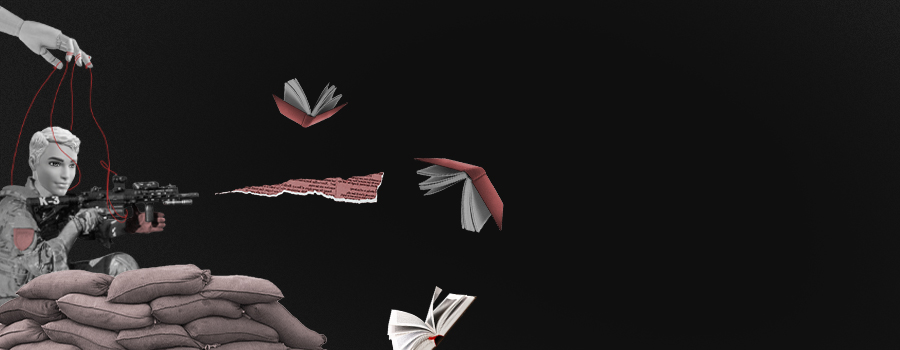
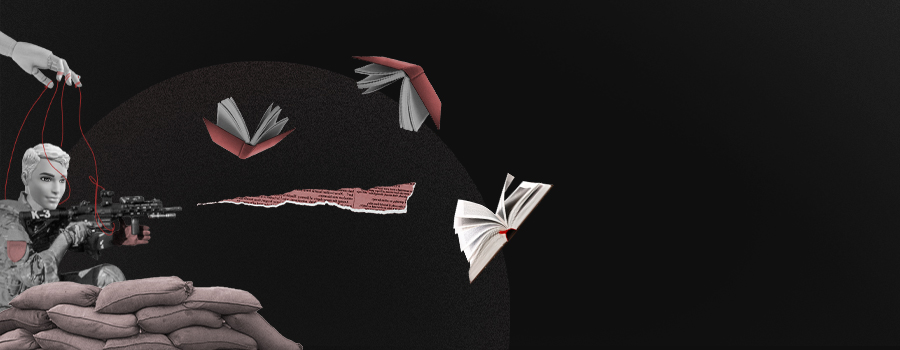
Kleine aanpassingen voor gebruiksvriendelijkheid te verbeteren

Changed region(s): [[0.0, 0.0286, 0.6222, 1.0], [0.2178, 0.1429, 0.4978, 0.4571], [0.4044, 0.8286, 0.5289, 1.0]]

diff --git a/src/css/longread/author.css b/src/css/longread/author.css
@@ -61,20 +61,13 @@
     position: absolute;
     height: 100%;
 
-    /* Image size */
-    /* DEEL 1 t.e.m. -1rem berekend puur de container width (zonder margin RECHTS -1rem) */
-    /* DEEL 2 -7rem is voor meer naar rechts te positioneren (14/2)*/
     right: calc(var(--container) - 7rem);
     background-size: cover;
-
-    /* Canvas size */
-    /* DEEL 1 t.e.m. -6rem berekend puur de container width (zonder margin -2rem) */
-    /* DEEL 2 14rem is de extra padding */
 
     width: calc(100vw - (var(--container) * 2) - 6rem + 14rem);
 
     @media (--only-medium-screen) {
-      left: -3rem; /* container margin negeren */
+      left: -3rem;
       width: 100vw;
     }
 
@@ -112,47 +105,3 @@
     padding: 0;
   }
 }
-
-/* .line--author {
-  position: relative;
-
-  &::before {
-    content: '';
-    background-image: url(../../assets/img/longread/line_auteur.svg);
-    background-repeat: no-repeat;
-
-    background-size: 100% auto;
-
-    width: calc(50vw - 15rem);
-    height: calc(50vw - 15rem);
-
-    position: absolute;
-    bottom: -10rem;
-    left: 0;
-    z-index: -1;
-
-    @media (width < 1440px) {
-      width: 45vw;
-      height: 45vw;
-    }
-
-    @media (--only-medium-screen) {
-      bottom: -8rem;
-    }
-
-    @media (--only-small-screen) {
-      background-size: 105% auto;
-      width: 100vw;
-      height: 50vw;
-      bottom: 10rem;
-    }
-
-    @media (--only-extrasmall-screen) {
-      bottom: 25rem;
-    }
-
-    @media (--only-mobile-screen) {
-      bottom: 35rem;
-    }
-  }
-} */

diff --git a/src/css/typography.css b/src/css/typography.css
@@ -1,3 +1,38 @@
+@font-face {
+  font-family: 'Swiss Condensed';
+  src: url(./../assets/fonts/Swiss/Swiss-Condensed.woff2) format('woff2'), url(./../assets/fonts/Swiss/Swiss-Condensed.woff) format('woff');
+  font-weight: normal;
+  font-style: normal;
+}
+
+@font-face {
+  font-family: Swiss;
+  src: url(./../assets/fonts/Swiss/Swiss.woff2) format('woff2'), url(./../assets/fonts/Swiss/Swiss.woff) format('woff');
+  font-weight: normal;
+  font-style: normal;
+}
+
+@font-face {
+  font-family: 'News Gothic';
+  src: url(./../assets/fonts/NewsGothic/NewsGothic.woff2) format('woff2'), url(./../assets/fonts/NewsGothic/NewsGothic.woff) format('woff');
+  font-weight: normal;
+  font-style: normal;
+}
+
+@font-face {
+  font-family: 'News Gothic';
+  src: url(./../assets/fonts/NewsGothic/NewsGothic-Bold.woff2) format('woff2'), url(./../assets/fonts/NewsGothic/NewsGothic-Bold.woff) format('woff');
+  font-weight: bold;
+  font-style: normal;
+}
+
+@font-face {
+  font-family: 'News Gothic';
+  src: url(./../assets/fonts/NewsGothic/NewsGothic-Oblique.woff2) format('woff2'), url(./../assets/fonts/NewsGothic/NewsGothic-Oblique.woff) format('woff');
+  font-weight: normal;
+  font-style: oblique;
+}
+
 body {
   font-size: var(--fontRegular);
   font-family: var(--fontBody);

diff --git a/src/css/helpers.css b/src/css/helpers.css
@@ -10,38 +10,3 @@
 .input--error {
   border-bottom: 1px solid var(--colorRed);
 }
-
-@font-face {
-  font-family: 'Swiss Condensed';
-  src: url(./../assets/fonts/Swiss/Swiss-Condensed.woff2) format('woff2'), url(./../assets/fonts/Swiss/Swiss-Condensed.woff) format('woff');
-  font-weight: normal;
-  font-style: normal;
-}
-
-@font-face {
-  font-family: Swiss;
-  src: url(./../assets/fonts/Swiss/Swiss.woff2) format('woff2'), url(./../assets/fonts/Swiss/Swiss.woff) format('woff');
-  font-weight: normal;
-  font-style: normal;
-}
-
-@font-face {
-  font-family: 'News Gothic';
-  src: url(./../assets/fonts/NewsGothic/NewsGothic.woff2) format('woff2'), url(./../assets/fonts/NewsGothic/NewsGothic.woff) format('woff');
-  font-weight: normal;
-  font-style: normal;
-}
-
-@font-face {
-  font-family: 'News Gothic';
-  src: url(./../assets/fonts/NewsGothic/NewsGothic-Bold.woff2) format('woff2'), url(./../assets/fonts/NewsGothic/NewsGothic-Bold.woff) format('woff');
-  font-weight: bold;
-  font-style: normal;
-}
-
-@font-face {
-  font-family: 'News Gothic';
-  src: url(./../assets/fonts/NewsGothic/NewsGothic-Oblique.woff2) format('woff2'), url(./../assets/fonts/NewsGothic/NewsGothic-Oblique.woff) format('woff');
-  font-weight: normal;
-  font-style: oblique;
-}

diff --git a/src/css/components/shopitem.css b/src/css/components/shopitem.css
@@ -75,13 +75,14 @@
 
 .info__options {
   display: grid;
-  grid-template-columns: repeat(auto-fill, minmax(6rem, 1fr));
+  grid-template-columns: repeat(auto-fill, minmax(8rem, 1fr));
   grid-gap: var(--spacerRegular);
   text-align: center;
   margin-top: 0;
 
   & div {
     border: 1px solid rgb(226, 226, 226);
+    border-radius: .2rem;
 
     &:hover {
       cursor: pointer;
@@ -91,14 +92,18 @@
 
 .option__input:checked + div {
   background-color: var(--colorGrey);
-  border: 1px solid rgb(117, 117, 117);
+  border: 1px solid rgb(180, 180, 180);
   font-weight: bold;
 }
 
 .option__label {
+  font-size: .8rem;
+  text-transform: uppercase;
+  letter-spacing: 2px;
   padding: .7rem 0;
   display: block;
-  min-width: 6rem;
+  min-width: 8rem;
+  color: var(--colorRed);
 
   &:hover {
     cursor: pointer;
@@ -107,6 +112,7 @@
   & .price {
     font-size: var(--fontSmall);
     font-family: var(--fontTitle);
+    color: black;
   }
 }
 

diff --git a/src/css/components/webshop.css b/src/css/components/webshop.css
@@ -1,8 +1,8 @@
 .webshop__items {
-  margin-top: var(--spacerBig);
+  margin-top: 3rem;
   display: grid;
   grid-template: auto / repeat(4, 1fr);
-  grid-gap: var(--spacerBig);
+  grid-gap: 3rem;
 
   @media (--only-medium-screen) {
     grid-template: auto / repeat(3, 1fr);
@@ -50,6 +50,8 @@
   }
 
   & .item__info {
+    font-size: .9rem;
+    opacity: .5;
     order: 4;
   }
 }

diff --git a/src/css/longread/summary.css b/src/css/longread/summary.css
@@ -51,7 +51,7 @@
 .summary__img {
   grid-area: img;
   height: 280px;
-  margin-bottom: 2rem; /* nodig voor mobile */
+  margin-bottom: 2rem;
   position: relative;
 
   @media (--only-small-screen) {
@@ -71,7 +71,6 @@
       url(../../assets/img/longread/intro_1000x388.jpg);
     background-repeat: no-repeat;
     right: 0;
-
 
     background-position:
       35rem 0%,

diff --git a/src/css/components/navbar.css b/src/css/components/navbar.css
@@ -177,10 +177,13 @@
 }
 
 .menu__items--mobile .menu__item--logo {
-  transform: translateX(-5.7rem);
   margin: 0 auto;
 
-  &::before {
+  & a {
+    transform: translate(-5.7rem, -1.75rem);
+  }
+
+  & a::before {
     content: '';
     position: absolute;
     background-repeat: no-repeat;

diff --git a/src/style.css b/src/style.css
@@ -1,8 +1,8 @@
 /* imports */
 @import './css/reset.css';
 @import './css/vars.css';
-@import './css/base.css';
 @import './css/typography.css';
+@import './css/base.css';
 @import './css/components/navbar.css';
 @import './css/components/footer.css';
 @import './css/components/banner.css';

diff --git a/src/css/components/checkout.css b/src/css/components/checkout.css
@@ -112,7 +112,7 @@
 .order__information {
   display: grid;
   grid-template-columns: repeat(4, 1fr);
-  grid-gap: var(--spacerRegular);
+  grid-gap: 2rem var(--spacerRegular);
   grid-template-areas:
     'title title title title'
     'firstname firstname lastname lastname'

diff --git a/src/css/components/footer.css b/src/css/components/footer.css
@@ -50,8 +50,6 @@
   }
 }
 
-/* FOOTER NAVIGATION */
-
 .footer__nav {
   margin-top: var(--spacerRegular);
 
@@ -91,8 +89,6 @@
     margin-bottom: var(--spacerRegular);
   }
 }
-
-/* FOOTER INFO */
 
 .footer__info {
   background-color: black;

diff --git a/src/css/components/form.css b/src/css/components/form.css
@@ -6,10 +6,6 @@
   }
 }
 
-/* .label:last-of-type .input--text{
-  margin-bottom: var(--spacerBig);
-} */
-
 .input {
   background-color: var(--colorGrey);
   border: none;

diff --git a/src/css/longread/base.css b/src/css/longread/base.css
@@ -58,7 +58,6 @@
 .line {
   position: absolute;
   z-index: -1;
-  /* right: 0; */
 }
 
 .line__wrapper {
